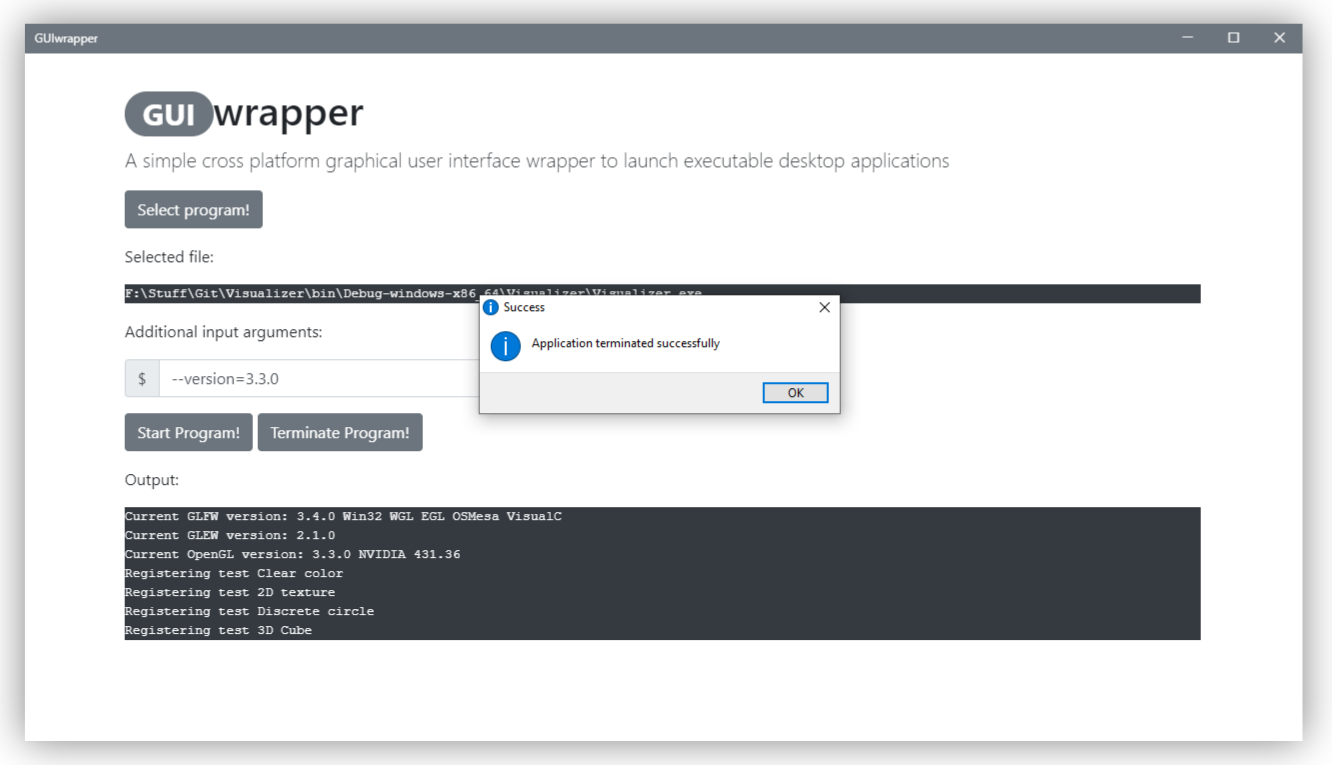
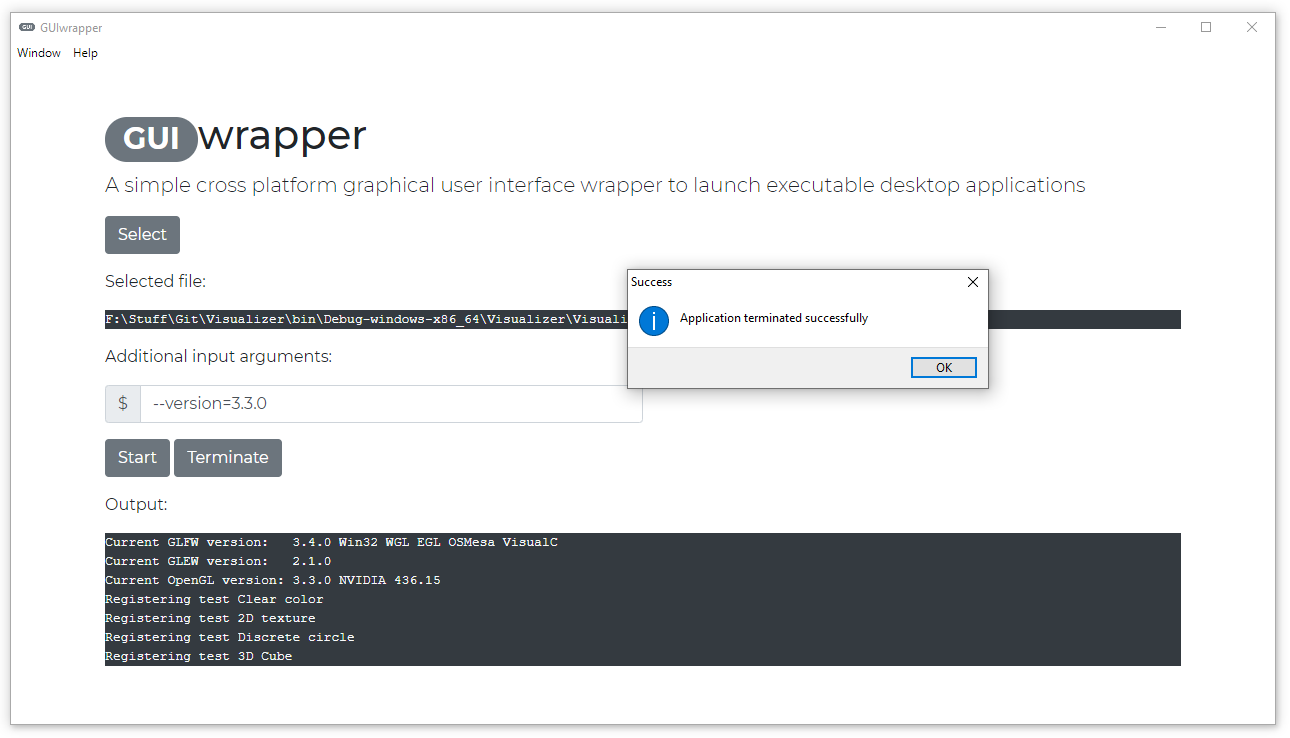
Update readme illustration picture

Changed region(s): [[0.0, 0.0, 0.9922, 0.9973]]

diff --git a/src/css/style.css b/src/css/style.css
@@ -4,7 +4,7 @@
 #main 
 {
     padding: 32px;
-    padding-top: 64px;
+    padding-top: 48px;
     font-family: 'Montserrat'
 }
 /* Draggable and selectable regions */
